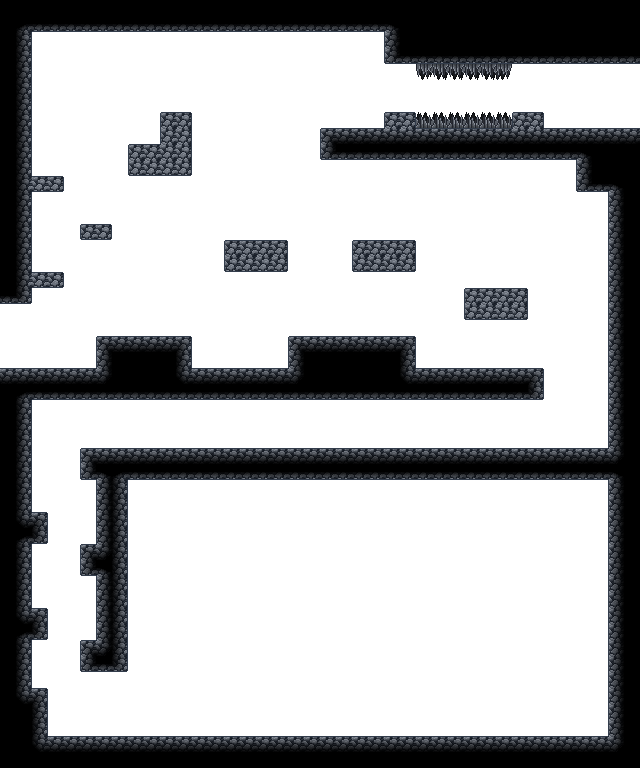
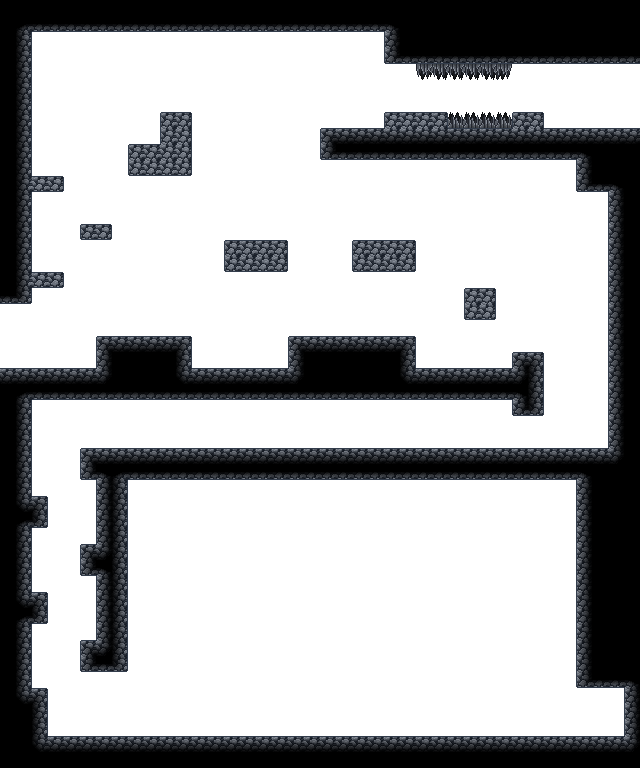
Level 2

diff --git a/TP2/Level2.cpp b/TP2/Level2.cpp
@@ -1,0 +1,155 @@
+#include "Level2.h"
+#include "Level1.h"
+#include "Level4.h"
+#include "Spike.h"
+#include "Wall.h"
+
+void Level2::Init()
+{
+    id = LEVEL2;
+
+    background = new Sprite("Resources/Level2Bg.png");
+    foreground = new Sprite("Resources/Level2Fg.png");
+
+    scene = new Scene();
+    TP2::scene = scene;
+
+    scene->Add(TP2::player, MOVING);
+
+    camera = new Camera();
+    camera->MoveTo(window->CenterX(), float(window->Height()));
+    scene->Add(camera, STATIC);
+
+    screenTransition = new ScreenTransition(VERTICAL, scene);
+    screenTransition->MoveTo(1152.0f, 768.0f);
+    scene->Add(screenTransition, STATIC);
+
+    level1Transition = new LevelTransition(LEFT);
+    level1Transition->MoveTo(0.0f, 672.0f);
+    scene->Add(level1Transition, STATIC);
+
+    level4Transition = new LevelTransition(RIGHT);
+    level4Transition->MoveTo(1280.0f, 192.0f);
+    scene->Add(level4Transition, STATIC);
+
+    AddWalls(scene, 0, 0, 24, 2);
+    AddWalls(scene, 24, 0, 16, 4);
+    AddWalls(scene, 0, 2, 2, 17);
+    AddWalls(scene, 2, 11, 2, 1);
+    AddWalls(scene, 5, 14, 2, 1);
+    AddWalls(scene, 2, 17, 2, 1);
+    AddWalls(scene, 10, 7, 2, 2);
+    AddWalls(scene, 8, 9, 4, 2);
+    AddWalls(scene, 20, 8, 20, 2);
+    AddWalls(scene, 24, 7, 4, 1);
+    AddWalls(scene, 32, 7, 2, 1);
+    AddWalls(scene, 36, 10, 2, 2);
+    AddWalls(scene, 14, 15, 4, 2);
+    AddWalls(scene, 22, 15, 4, 2);
+    AddWalls(scene, 29, 18, 2, 2);
+    AddWalls(scene, 6, 21, 6, 2);
+    AddWalls(scene, 18, 21, 8, 2);
+    AddWalls(scene, 18, 21, 8, 2);
+    AddWalls(scene, 32, 22, 2, 1);
+    AddWalls(scene, 32, 25, 2, 1);
+    AddWalls(scene, 0, 23, 34, 2);
+    AddWalls(scene, 38, 12, 2, 16);
+    AddWalls(scene, 0, 25, 2, 18);
+    AddWalls(scene, 2, 31, 1, 2);
+    AddWalls(scene, 2, 37, 1, 2);
+    AddWalls(scene, 5, 28, 33, 2);
+    AddWalls(scene, 6, 30, 2, 12);
+    AddWalls(scene, 5, 34, 1, 2);
+    AddWalls(scene, 5, 40, 1, 2);
+    AddWalls(scene, 36, 30, 2, 13);
+    AddWalls(scene, 38, 42, 1, 1);
+    AddWalls(scene, 2, 43, 1, 3);
+    AddWalls(scene, 3, 46, 36, 2);
+    AddWalls(scene, 39, 43, 1, 3);
+
+    scene->Add(new Spike(26, 4, 6, 1, DOWN), STATIC);
+    scene->Add(new Spike(28, 7, 4, 1, UP), STATIC);
+}
+
+void Level2::Update()
+{
+    if (level1Transition->Transitioning())
+    {
+        TP2::player->AddCooldowns(gameTime);
+        TP2::player->Translate(LevelTransition::DISTANCE * gameTime, 0.0f);
+        TP2::player->UpdateAnimation();
+        level1Transition->Update();
+    }
+    else if (level1Transition->Done())
+    {
+        TP2::NextLevel<Level1>();
+    }
+    // else if (level4Transition->Transitioning())
+    // {
+    //     TP2::player->AddCooldowns(gameTime);
+    //     TP2::player->Translate(-LevelTransition::DISTANCE * gameTime, 0.0f);
+    //     TP2::player->UpdateAnimation();
+    //     level4Transition->Update();
+    // }
+    // else if (level4Transition->Done())
+    // {
+    //     TP2::NextLevel<Level4>();
+    // }
+    else if (enteringCd.Down())
+    {
+        TP2::player->AddCooldowns(gameTime);
+        TP2::player->UpdateAnimation();
+        enteringCd.Add(gameTime);
+        if (enteringFrom == LEVEL1)
+            TP2::player->Translate(LevelTransition::DISTANCE * gameTime, 0.0f);
+        else if (enteringFrom == LEVEL3)
+            TP2::player->Translate(-LevelTransition::DISTANCE * gameTime, 0.0f);
+    }
+    else if (screenTransition->Transitioning())
+    {
+        screenTransition->Update();
+        TP2::player->AddCooldowns(0.1f * gameTime);
+    }
+    else
+    {
+        scene->Update();
+        scene->CollisionDetection();
+    }
+}
+
+void Level2::Draw()
+{
+    background->Draw(camera->X(), camera->Y(), LAYER_BG);
+    foreground->Draw(camera->X(), camera->Y(), LAYER_FG);
+    scene->Draw();
+}
+
+void Level2::Finalize()
+{
+    delete background;
+    delete foreground;
+    scene->Remove(TP2::player, MOVING);
+    delete scene;
+}
+
+void Level2::EnterFrom(LevelId id)
+{
+    switch (id)
+    {
+    case LEVEL4:
+        enteringFrom = LEVEL4;
+        TP2::player->MoveTo(2560.0f, 158.0f);
+        TP2::player->State(WALKING);
+        TP2::player->Dir(H_LEFT);
+        enteringCd.Restart();
+        break;
+    case LEVEL1:
+    default:
+        enteringFrom = LEVEL1;
+        TP2::player->MoveTo(0.0f, 706.0f);
+        TP2::player->State(WALKING);
+        TP2::player->Dir(H_RIGHT);
+        enteringCd.Restart();
+        break;
+    }
+}

diff --git a/TP2/Level1.cpp b/TP2/Level1.cpp
@@ -1,11 +1,11 @@
 #include "Level1.h"
 #include "EntityBlock.h"
 #include "Level0.h"
+#include "Level2.h"
 #include "LevelTransition.h"
 #include "TP2.h"
 #include "Wall.h"
 #include "WanderingHusk.h"
-// #include "Level2.h"
 // #include "Level3.h"
 
 void Level1::Init()
@@ -36,7 +36,7 @@ void Level1::Init()
     scene->Add(level0Transition, STATIC);
 
     level2Transition = new LevelTransition(RIGHT);
-    level2Transition->MoveTo(2560.0f, 1408.0f);
+    level2Transition->MoveTo(1280.0f, 1408.0f);
     scene->Add(level2Transition, STATIC);
 
     level3Transition = new LevelTransition(LEFT);
@@ -86,17 +86,17 @@ void Level1::Update()
     {
         TP2::NextLevel<Level0>();
     }
-    // else if (level2Transition->Transitioning())
-    // {
-    //     TP2::player->AddCooldowns(gameTime);
-    //     TP2::player->Translate(LevelTransition::DISTANCE * gameTime, 0.0f);
-    //     TP2::player->UpdateAnimation();
-    //     level2Transition->Update();
-    // }
-    // else if (level2Transition->Done())
-    // {
-    //     TP2::NextLevel<Level2>();
-    // }
+    else if (level2Transition->Transitioning())
+    {
+        TP2::player->AddCooldowns(gameTime);
+        TP2::player->Translate(LevelTransition::DISTANCE * gameTime, 0.0f);
+        TP2::player->UpdateAnimation();
+        level2Transition->Update();
+    }
+    else if (level2Transition->Done())
+    {
+        TP2::NextLevel<Level2>();
+    }
     // else if (level3Transition->Transitioning())
     // {
     //     TP2::player->AddCooldowns(gameTime);
@@ -140,17 +140,18 @@ void Level1::Draw()
 void Level1::Finalize()
 {
     delete background;
+    delete foreground;
+    delete wanderingTileSet;
     scene->Remove(TP2::player, MOVING);
     delete scene;
 }
 
 void Level1::EnterFrom(LevelId id)
 {
-    enteringFrom = id;
-
     switch (id)
     {
     case LEVEL2:
+        enteringFrom = LEVEL2;
         TP2::player->MoveTo(1280.0f, 1442.0f);
         scene->Apply([&](Object *obj) { obj->Translate(0.0f, float(-window->Height())); });
         TP2::player->State(WALKING);
@@ -158,6 +159,7 @@ void Level1::EnterFrom(LevelId id)
         enteringCd.Restart();
         break;
     case LEVEL3:
+        enteringFrom = LEVEL3;
         TP2::player->MoveTo(0.0f, 706.0f);
         TP2::player->State(WALKING);
         TP2::player->Dir(H_RIGHT);
@@ -165,6 +167,7 @@ void Level1::EnterFrom(LevelId id)
         break;
     case LEVEL0:
     default:
+        enteringFrom = LEVEL0;
         TP2::player->MoveTo(0.0f, 1442.0f);
         scene->Apply([&](Object *obj) { obj->Translate(0.0f, float(-window->Height())); });
         TP2::player->State(WALKING);

diff --git a/TP2/TP2.cpp b/TP2/TP2.cpp
@@ -3,6 +3,7 @@
 #include "Button.h"
 #include "Level0.h"
 #include "Level1.h"
+#include "Level2.h"
 #include "Util.h"
 
 #define M_PI 3.141592653589793238462643383279502884L
@@ -75,17 +76,19 @@ void TP2::Update()
 {
     if (window->KeyDown(VK_F1))
         NextLevel<Level0>();
-    if (window->KeyDown(VK_F2))
+    else if (window->KeyDown(VK_F2))
         NextLevel<Level1>();
-    if (window->KeyDown(VK_F6))
+    else if (window->KeyDown(VK_F3))
+        NextLevel<Level2>();
+    else if (window->KeyDown(VK_F6))
         NextLevel<TitleScreen>();
-    if (window->KeyDown(VK_F7))
+    else if (window->KeyDown(VK_F7))
         player->LearnFireball();
-    if (window->KeyDown(VK_F8))
+    else if (window->KeyDown(VK_F8))
         player->LearnDash();
-    if (window->KeyDown('H'))
+    else if (window->KeyDown('H'))
         player->FullHP();
-    if (window->KeyDown('M'))
+    else if (window->KeyDown('M'))
         player->FullMana();
 
     if (window->KeyDown('B') && !bBoxKeyCtrl)

diff --git a/TP2/Level2.h b/TP2/Level2.h
@@ -1,0 +1,38 @@
+#ifndef _LEVEL2_H_
+#define _LEVEL2_H_
+
+#include "Camera.h"
+#include "Level.h"
+#include "LevelTransition.h"
+#include "Scene.h"
+#include "ScreenTransition.h"
+#include "TP2.h"
+
+class Level2 : public Level
+{
+  private:
+    Sprite *background = nullptr;
+    Sprite *foreground = nullptr;
+    TileSet *tiktikTileSet = nullptr;
+    TileSet *wanderingTileSet = nullptr;
+
+    Scene *scene = nullptr;
+
+    Camera *camera = nullptr;
+    ScreenTransition *screenTransition = nullptr;
+    LevelTransition *level1Transition = nullptr;
+    LevelTransition *level4Transition = nullptr;
+
+    LevelId enteringFrom;
+    Cooldown enteringCd{LevelTransition::DURATION};
+
+  public:
+    void Init();
+    void Update();
+    void Draw();
+    void Finalize();
+
+    void EnterFrom(LevelId id);
+};
+
+#endif

diff --git a/TP2/Level0.cpp b/TP2/Level0.cpp
@@ -299,6 +299,12 @@ void Level0::Draw()
 void Level0::Finalize()
 {
     delete background;
+    delete foreground;
+    delete tiktikTileSet;
+    delete wanderingTileSet;
+    delete tutorialMove;
+    delete tutorialJump;
+    delete tutorialAttack;
     scene->Remove(TP2::player, MOVING);
     delete scene;
 }
